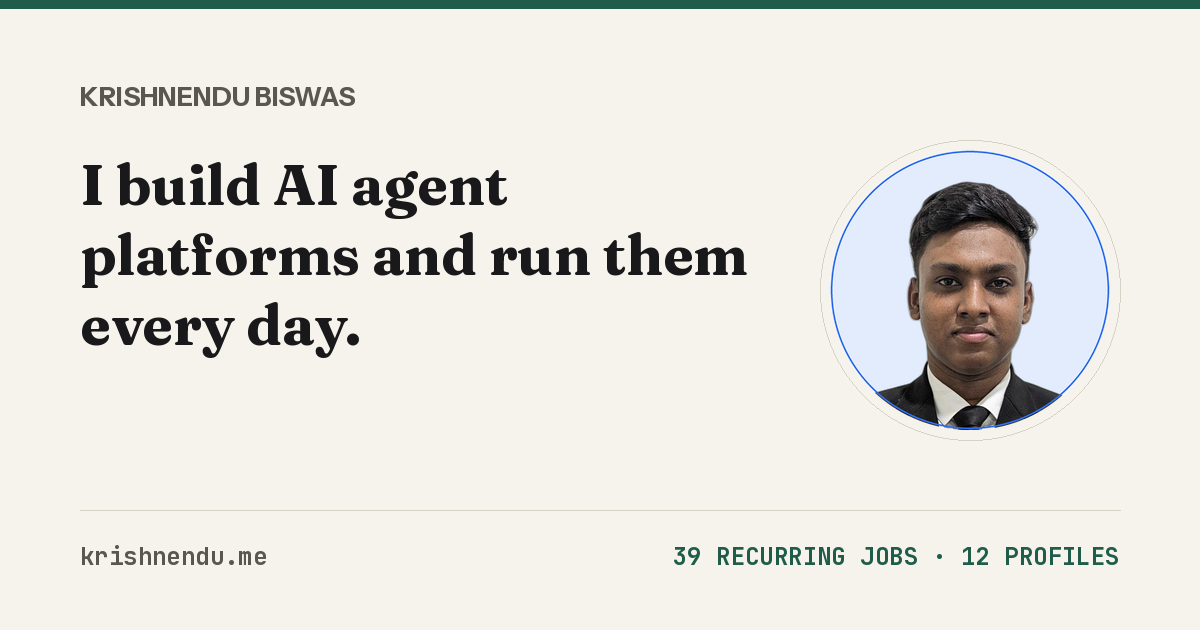
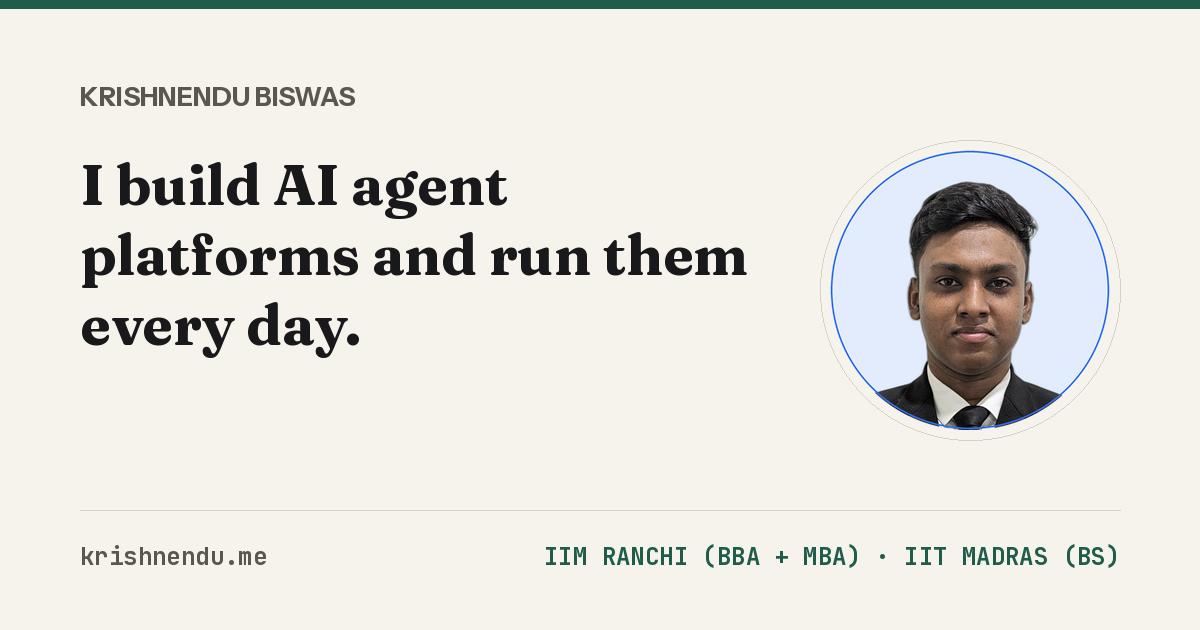
share card: education line replaces job/profile counts; second-year MBA wording; meta description no longer repeats hero tagline

Changed region(s): [[0.4625, 0.8444, 0.925, 0.9048]]

diff --git a/index.html b/index.html
@@ -3,8 +3,8 @@
 <head>
   <meta charset="utf-8">
   <meta name="viewport" content="width=device-width, initial-scale=1">
-  <title>Krishnendu Biswas | AI agent systems, IIM Ranchi MBA candidate</title>
-  <meta name="description" content="I build AI agent platforms and run them daily with a human approval gate. MBA candidate at IIM Ranchi, programming diploma from IIT Madras.">
+  <title>Krishnendu Biswas | AI agent systems, IIM Ranchi MBA</title>
+  <meta name="description" content="Multi-agent systems where every irreversible step waits for my approval. BS in Data Science at IIT Madras. Second-year MBA student at IIM Ranchi.">
   <link rel="canonical" href="https://krishnendu.me/">
   <link rel="icon" href="/favicon.ico" sizes="any">
   <link rel="icon" href="/assets/favicon.svg" type="image/svg+xml">
@@ -21,19 +21,19 @@
   <meta property="og:site_name" content="Krishnendu Biswas">
   <meta property="og:locale" content="en_IN">
   <meta property="og:url" content="https://krishnendu.me/">
-  <meta property="og:title" content="Krishnendu Biswas | AI agent systems, IIM Ranchi MBA candidate">
-  <meta property="og:description" content="I build AI agent platforms and run them daily with a human approval gate. MBA candidate at IIM Ranchi, programming diploma from IIT Madras.">
+  <meta property="og:title" content="Krishnendu Biswas | AI agent systems, IIM Ranchi MBA">
+  <meta property="og:description" content="Multi-agent systems where every irreversible step waits for my approval. BS in Data Science at IIT Madras. Second-year MBA student at IIM Ranchi.">
   <meta property="og:image" content="https://krishnendu.me/og/og-home.png">
   <meta property="og:image:secure_url" content="https://krishnendu.me/og/og-home.png">
   <meta property="og:image:type" content="image/png">
   <meta property="og:image:width" content="1200">
   <meta property="og:image:height" content="630">
-  <meta property="og:image:alt" content="Krishnendu Biswas | AI agent systems, IIM Ranchi MBA candidate, share card for krishnendu.me">
+  <meta property="og:image:alt" content="Krishnendu Biswas | AI agent systems, IIM Ranchi MBA, share card for krishnendu.me">
   <meta name="twitter:card" content="summary_large_image">
-  <meta name="twitter:title" content="Krishnendu Biswas | AI agent systems, IIM Ranchi MBA candidate">
-  <meta name="twitter:description" content="I build AI agent platforms and run them daily with a human approval gate. MBA candidate at IIM Ranchi, programming diploma from IIT Madras.">
+  <meta name="twitter:title" content="Krishnendu Biswas | AI agent systems, IIM Ranchi MBA">
+  <meta name="twitter:description" content="Multi-agent systems where every irreversible step waits for my approval. BS in Data Science at IIT Madras. Second-year MBA student at IIM Ranchi.">
   <meta name="twitter:image" content="https://krishnendu.me/og/og-home.png">
-  <meta name="twitter:image:alt" content="Krishnendu Biswas | AI agent systems, IIM Ranchi MBA candidate, share card for krishnendu.me">
+  <meta name="twitter:image:alt" content="Krishnendu Biswas | AI agent systems, IIM Ranchi MBA, share card for krishnendu.me">
   <script type="speculationrules">
   {
     "prerender": [
@@ -67,7 +67,7 @@
         "Krishnendu Biswas IIM Ranchi"
       ],
       "jobTitle": "AI Systems Developer and MBA Candidate",
-      "description": "Krishnendu Biswas is an MBA candidate at IIM Ranchi (class of 2027) who builds AI agent platforms and runs them daily with a human approval gate. He is pursuing the BS Degree in Data Science and Applications at IIT Madras (Diploma in Programming completed) and an author of a paper accepted for Springer Nature FICTA 2026 proceedings.",
+      "description": "Krishnendu Biswas is a second-year MBA student at IIM Ranchi (class of 2027) who builds AI agent platforms and runs them daily with a human approval gate. He is pursuing the BS Degree in Data Science and Applications at IIT Madras (Diploma in Programming completed) and an author of a paper accepted for Springer Nature FICTA 2026 proceedings.",
       "url": "https://krishnendu.me/",
       "image": {
         "@type": "ImageObject",
@@ -186,7 +186,7 @@
       "@type": "ProfilePage",
       "@id": "https://krishnendu.me/#webpage",
       "url": "https://krishnendu.me/",
-      "name": "Krishnendu Biswas | AI agent systems, IIM Ranchi MBA candidate",
+      "name": "Krishnendu Biswas | AI agent systems, IIM Ranchi MBA",
       "isPartOf": {
         "@id": "https://krishnendu.me/#website"
       },
@@ -292,7 +292,7 @@
           <span class="hero-line">I build AI agent platforms and run them every day.</span>
           <span class="hero-line turn">Anything irreversible waits for my approval.</span>
         </h1>
-        <p class="deck">MBA candidate, IIM Ranchi, class of 2027. BS in Data Science and Applications student at IIT Madras, Diploma in Programming completed. The platform runs on open-source Hermes Agent. The design is mine: which agent owns what, and where work stops for me.</p>
+        <p class="deck">Second-year MBA student, IIM Ranchi, class of 2027. BS in Data Science and Applications student at IIT Madras, Diploma in Programming completed. The platform runs on open-source Hermes Agent. The design is mine: which agent owns what, and where work stops for me.</p>
         <div class="actions">
           <a class="btn primary" href="/work/platform/">See the platform <svg class="icon" aria-hidden="true"><use href="#i-arr"/></svg></a>
           <a class="btn" href="/resume/Krishnendu-Biswas-Resume.pdf?v=2" target="_blank" rel="noopener noreferrer"><svg class="icon" aria-hidden="true"><use href="#i-pdf"/></svg> Resume (PDF)</a>
@@ -338,7 +338,7 @@
         </tr>
       </thead>
       <tbody>
-        <tr><th scope="row" aria-hidden="true">Mon</th><td class="is-void" aria-hidden="true"></td><td data-date="2026-09-14" data-value="0.0" data-level="0" role="gridcell" aria-label="Mon 14 Sep: 0 hours"></td><td data-date="2026-09-21" data-value="4.9" data-level="2" role="gridcell" aria-label="Mon 21 Sep: 4.9 h"></td><td data-date="2026-09-28" data-value="13.9" data-level="4" role="gridcell" aria-label="Mon 28 Sep: 13.9 h"></td><td data-date="2026-10-05" data-value="12.2" data-level="4" role="gridcell" aria-label="Mon 5 Oct: 12.2 h"></td></tr><tr><th scope="row" aria-hidden="true"></th><td class="is-void" aria-hidden="true"></td><td data-date="2026-09-15" data-value="0.2" data-level="1" role="gridcell" aria-label="Tue 15 Sep: 0.2 h"></td><td data-date="2026-09-22" data-value="5.1" data-level="3" role="gridcell" aria-label="Tue 22 Sep: 5.1 h"></td><td data-date="2026-09-29" data-value="6.3" data-level="3" role="gridcell" aria-label="Tue 29 Sep: 6.3 h"></td><td data-date="2026-10-06" data-value="10.2" data-level="4" role="gridcell" aria-label="Tue 6 Oct: 10.2 h"></td></tr><tr><th scope="row" aria-hidden="true">Wed</th><td class="is-void" aria-hidden="true"></td><td data-date="2026-09-16" data-value="0.0" data-level="0" role="gridcell" aria-label="Wed 16 Sep: 0 hours"></td><td data-date="2026-09-23" data-value="5.4" data-level="3" role="gridcell" aria-label="Wed 23 Sep: 5.4 h"></td><td data-date="2026-09-30" data-value="11.9" data-level="4" role="gridcell" aria-label="Wed 30 Sep: 11.9 h"></td><td data-date="2026-10-07" data-value="1.7" data-level="1" data-today="true" role="gridcell" aria-label="Wed 7 Oct: 1.7 h (today)"></td></tr><tr><th scope="row" aria-hidden="true"></th><td class="is-void" aria-hidden="true"></td><td data-date="2026-09-17" data-value="0.0" data-level="0" role="gridcell" aria-label="Thu 17 Sep: 0 hours"></td><td data-date="2026-09-24" data-value="6.7" data-level="3" role="gridcell" aria-label="Thu 24 Sep: 6.7 h"></td><td data-date="2026-10-01" data-value="9.3" data-level="4" role="gridcell" aria-label="Thu 1 Oct: 9.3 h"></td><td class="is-void" aria-hidden="true"></td></tr><tr><th scope="row" aria-hidden="true">Fri</th><td class="is-void" aria-hidden="true"></td><td data-date="2026-09-18" data-value="0.0" data-level="0" role="gridcell" aria-label="Fri 18 Sep: 0 hours"></td><td data-date="2026-09-25" data-value="9.2" data-level="4" role="gridcell" aria-label="Fri 25 Sep: 9.2 h"></td><td data-date="2026-10-02" data-value="13.3" data-level="4" role="gridcell" aria-label="Fri 2 Oct: 13.3 h"></td><td class="is-void" aria-hidden="true"></td></tr><tr><th scope="row" aria-hidden="true"></th><td class="is-void" aria-hidden="true"></td><td data-date="2026-09-19" data-value="3.3" data-level="2" role="gridcell" aria-label="Sat 19 Sep: 3.3 h"></td><td data-date="2026-09-26" data-value="3.8" data-level="2" role="gridcell" aria-label="Sat 26 Sep: 3.8 h"></td><td data-date="2026-10-03" data-value="11.1" data-level="4" role="gridcell" aria-label="Sat 3 Oct: 11.1 h"></td><td class="is-void" aria-hidden="true"></td></tr><tr><th scope="row" aria-hidden="true">Sun</th><td data-date="2026-09-13" data-value="0.2" data-level="1" role="gridcell" aria-label="Sun 13 Sep: 0.2 h"></td><td data-date="2026-09-20" data-value="1.2" data-level="1" role="gridcell" aria-label="Sun 20 Sep: 1.2 h"></td><td data-date="2026-09-27" data-value="4.5" data-level="2" role="gridcell" aria-label="Sun 27 Sep: 4.5 h"></td><td data-date="2026-10-04" data-value="8.0" data-level="3" role="gridcell" aria-label="Sun 4 Oct: 8.0 h"></td><td class="is-void" aria-hidden="true"></td></tr>
+        <tr><th scope="row" aria-hidden="true">Mon</th><td class="is-void" aria-hidden="true"></td><td data-date="2026-09-14" data-value="0.0" data-level="0" role="gridcell" aria-label="Mon 14 Sep: 0 hours"></td><td data-date="2026-09-21" data-value="4.9" data-level="2" role="gridcell" aria-label="Mon 21 Sep: 4.9 h"></td><td data-date="2026-09-28" data-value="13.9" data-level="4" role="gridcell" aria-label="Mon 28 Sep: 13.9 h"></td><td data-date="2026-10-05" data-value="12.2" data-level="4" role="gridcell" aria-label="Mon 5 Oct: 12.2 h"></td></tr><tr><th scope="row" aria-hidden="true"></th><td class="is-void" aria-hidden="true"></td><td data-date="2026-09-15" data-value="0.2" data-level="1" role="gridcell" aria-label="Tue 15 Sep: 0.2 h"></td><td data-date="2026-09-22" data-value="5.1" data-level="3" role="gridcell" aria-label="Tue 22 Sep: 5.1 h"></td><td data-date="2026-09-29" data-value="6.3" data-level="3" role="gridcell" aria-label="Tue 29 Sep: 6.3 h"></td><td data-date="2026-10-06" data-value="10.2" data-level="4" role="gridcell" aria-label="Tue 6 Oct: 10.2 h"></td></tr><tr><th scope="row" aria-hidden="true">Wed</th><td class="is-void" aria-hidden="true"></td><td data-date="2026-09-16" data-value="0.0" data-level="0" role="gridcell" aria-label="Wed 16 Sep: 0 hours"></td><td data-date="2026-09-23" data-value="5.4" data-level="3" role="gridcell" aria-label="Wed 23 Sep: 5.4 h"></td><td data-date="2026-09-30" data-value="11.9" data-level="4" role="gridcell" aria-label="Wed 30 Sep: 11.9 h"></td><td data-date="2026-10-07" data-value="2.1" data-level="2" data-today="true" role="gridcell" aria-label="Wed 7 Oct: 2.1 h (today)"></td></tr><tr><th scope="row" aria-hidden="true"></th><td class="is-void" aria-hidden="true"></td><td data-date="2026-09-17" data-value="0.0" data-level="0" role="gridcell" aria-label="Thu 17 Sep: 0 hours"></td><td data-date="2026-09-24" data-value="6.7" data-level="3" role="gridcell" aria-label="Thu 24 Sep: 6.7 h"></td><td data-date="2026-10-01" data-value="9.3" data-level="4" role="gridcell" aria-label="Thu 1 Oct: 9.3 h"></td><td class="is-void" aria-hidden="true"></td></tr><tr><th scope="row" aria-hidden="true">Fri</th><td class="is-void" aria-hidden="true"></td><td data-date="2026-09-18" data-value="0.0" data-level="0" role="gridcell" aria-label="Fri 18 Sep: 0 hours"></td><td data-date="2026-09-25" data-value="9.2" data-level="4" role="gridcell" aria-label="Fri 25 Sep: 9.2 h"></td><td data-date="2026-10-02" data-value="13.3" data-level="4" role="gridcell" aria-label="Fri 2 Oct: 13.3 h"></td><td class="is-void" aria-hidden="true"></td></tr><tr><th scope="row" aria-hidden="true"></th><td class="is-void" aria-hidden="true"></td><td data-date="2026-09-19" data-value="3.3" data-level="2" role="gridcell" aria-label="Sat 19 Sep: 3.3 h"></td><td data-date="2026-09-26" data-value="3.8" data-level="2" role="gridcell" aria-label="Sat 26 Sep: 3.8 h"></td><td data-date="2026-10-03" data-value="11.1" data-level="4" role="gridcell" aria-label="Sat 3 Oct: 11.1 h"></td><td class="is-void" aria-hidden="true"></td></tr><tr><th scope="row" aria-hidden="true">Sun</th><td data-date="2026-09-13" data-value="0.2" data-level="1" role="gridcell" aria-label="Sun 13 Sep: 0.2 h"></td><td data-date="2026-09-20" data-value="1.2" data-level="1" role="gridcell" aria-label="Sun 20 Sep: 1.2 h"></td><td data-date="2026-09-27" data-value="4.5" data-level="2" role="gridcell" aria-label="Sun 27 Sep: 4.5 h"></td><td data-date="2026-10-04" data-value="8.0" data-level="3" role="gridcell" aria-label="Sun 4 Oct: 8.0 h"></td><td class="is-void" aria-hidden="true"></td></tr>
       </tbody>
     </table>
   </div>
@@ -349,7 +349,7 @@
 </div>
 </figure>
         <div class="panel-stats">
-          <div class="stat-line"><span class="lbl">Total hours</span><span class="val">142.4 h</span></div>
+          <div class="stat-line"><span class="lbl">Total hours</span><span class="val">142.8 h</span></div>
           <div class="stat-line"><span class="lbl">Active days</span><span class="val">21</span></div>
           <div class="stat-line"><span class="lbl">Daily average</span><span class="val">6.8 h/day</span></div>
           <div class="stat-line"><span class="lbl">Longest day</span><span class="val">13.9 h (28 Sep 2026)</span></div>
@@ -363,9 +363,9 @@
     <article class="metric-card" id="metric-card-replies">
   <details class="metric-pop" data-ix="metric_pop">
     <summary class="metric-summary" aria-haspopup="dialog" aria-expanded="false">
-      <div class="metric-num">127,881</div>
+      <div class="metric-num">129,015</div>
       <span class="metric-title">Agent replies <span class="metric-affordance"><span>Message split</span><svg class="affordance-icon" width="10" height="10" viewBox="0 0 12 12" fill="none" stroke="currentColor" stroke-width="2" aria-hidden="true"><path d="M3 4.5l3 3 3-3"/></svg></span></span>
-      <div class="metric-cap">Replies my agents sent to the 3,037 messages I sent them, most of them dictated.</div>
+      <div class="metric-cap">Replies my agents sent to the 3,044 messages I sent them, most of them dictated.</div>
     </summary>
     <div class="metric-panel" role="region" aria-label="Agent replies breakdown">
       <div class="panel-header">
@@ -377,15 +377,15 @@
       <div class="panel-content">
         <div class="bars-chart" aria-label="Turn volume comparison">
           <div class="bar-row">
-            <div class="bar-head"><span class="lbl">My messages (dictated or typed)</span><span class="val">3,037</span></div>
+            <div class="bar-head"><span class="lbl">My messages (dictated or typed)</span><span class="val">3,044</span></div>
             <div class="bar-track"><div class="bar-fill bar-human" style="width: 4%"></div></div>
           </div>
           <div class="bar-row">
-            <div class="bar-head"><span class="lbl">Agent replies</span><span class="val">127,881</span></div>
+            <div class="bar-head"><span class="lbl">Agent replies</span><span class="val">129,015</span></div>
             <div class="bar-track"><div class="bar-fill bar-agent" style="width: 100%"></div></div>
           </div>
           <div class="bar-row">
-            <div class="bar-head"><span class="lbl">Tool executions</span><span class="val">127,019</span></div>
+            <div class="bar-head"><span class="lbl">Tool executions</span><span class="val">128,187</span></div>
             <div class="bar-track"><div class="bar-fill bar-tool" style="width: 99%"></div></div>
           </div>
         </div>
@@ -399,7 +399,7 @@
     <article class="metric-card" id="metric-card-tokens">
   <details class="metric-pop" data-ix="metric_pop">
     <summary class="metric-summary" aria-haspopup="dialog" aria-expanded="false">
-      <div class="metric-num">7.74 <span class="unit">B</span></div>
+      <div class="metric-num">7.79 <span class="unit">B</span></div>
       <span class="metric-title">Tokens processed <span class="metric-affordance"><span>Model breakdown</span><svg class="affordance-icon" width="10" height="10" viewBox="0 0 12 12" fill="none" stroke="currentColor" stroke-width="2" aria-hidden="true"><path d="M3 4.5l3 3 3-3"/></svg></span></span>
       <div class="metric-cap">Mostly context my agents re-read on every turn.</div>
     </summary>
@@ -423,7 +423,7 @@
         </tr>
       </thead>
       <tbody>
-        <tr><th scope="row" aria-hidden="true">Mon</th><td class="is-void" aria-hidden="true"></td><td data-date="2026-09-14" data-value="0" data-level="0" role="gridcell" aria-label="Mon 14 Sep: 0 tokens"></td><td data-date="2026-09-21" data-value="95953864" data-level="2" role="gridcell" aria-label="Mon 21 Sep: 96.0 M tokens"></td><td data-date="2026-09-28" data-value="631148070" data-level="4" role="gridcell" aria-label="Mon 28 Sep: 631.1 M tokens"></td><td data-date="2026-10-05" data-value="1111637264" data-level="4" role="gridcell" aria-label="Mon 5 Oct: 1.11 B tokens"></td></tr><tr><th scope="row" aria-hidden="true"></th><td class="is-void" aria-hidden="true"></td><td data-date="2026-09-15" data-value="15355" data-level="1" role="gridcell" aria-label="Tue 15 Sep: 15,355 tokens"></td><td data-date="2026-09-22" data-value="313407280" data-level="3" role="gridcell" aria-label="Tue 22 Sep: 313.4 M tokens"></td><td data-date="2026-09-29" data-value="358888124" data-level="3" role="gridcell" aria-label="Tue 29 Sep: 358.9 M tokens"></td><td data-date="2026-10-06" data-value="1133844646" data-level="4" role="gridcell" aria-label="Tue 6 Oct: 1.13 B tokens"></td></tr><tr><th scope="row" aria-hidden="true">Wed</th><td class="is-void" aria-hidden="true"></td><td data-date="2026-09-16" data-value="70000666" data-level="2" role="gridcell" aria-label="Wed 16 Sep: 70.0 M tokens"></td><td data-date="2026-09-23" data-value="366172370" data-level="3" role="gridcell" aria-label="Wed 23 Sep: 366.2 M tokens"></td><td data-date="2026-09-30" data-value="210326397" data-level="3" role="gridcell" aria-label="Wed 30 Sep: 210.3 M tokens"></td><td data-date="2026-10-07" data-value="214871427" data-level="3" data-today="true" role="gridcell" aria-label="Wed 7 Oct: 214.9 M tokens (today)"></td></tr><tr><th scope="row" aria-hidden="true"></th><td class="is-void" aria-hidden="true"></td><td data-date="2026-09-17" data-value="114053368" data-level="2" role="gridcell" aria-label="Thu 17 Sep: 114.1 M tokens"></td><td data-date="2026-09-24" data-value="285423212" data-level="3" role="gridcell" aria-label="Thu 24 Sep: 285.4 M tokens"></td><td data-date="2026-10-01" data-value="375736876" data-level="3" role="gridcell" aria-label="Thu 1 Oct: 375.7 M tokens"></td><td class="is-void" aria-hidden="true"></td></tr><tr><th scope="row" aria-hidden="true">Fri</th><td class="is-void" aria-hidden="true"></td><td data-date="2026-09-18" data-value="85326766" data-level="2" role="gridcell" aria-label="Fri 18 Sep: 85.3 M tokens"></td><td data-date="2026-09-25" data-value="143594670" data-level="2" role="gridcell" aria-label="Fri 25 Sep: 143.6 M tokens"></td><td data-date="2026-10-02" data-value="685183206" data-level="4" role="gridcell" aria-label="Fri 2 Oct: 685.2 M tokens"></td><td class="is-void" aria-hidden="true"></td></tr><tr><th scope="row" aria-hidden="true"></th><td class="is-void" aria-hidden="true"></td><td data-date="2026-09-19" data-value="56009301" data-level="2" role="gridcell" aria-label="Sat 19 Sep: 56.0 M tokens"></td><td data-date="2026-09-26" data-value="39499225" data-level="1" role="gridcell" aria-label="Sat 26 Sep: 39.5 M tokens"></td><td data-date="2026-10-03" data-value="875089817" data-level="4" role="gridcell" aria-label="Sat 3 Oct: 875.1 M tokens"></td><td class="is-void" aria-hidden="true"></td></tr><tr><th scope="row" aria-hidden="true">Sun</th><td data-date="2026-09-13" data-value="0" data-level="0" role="gridcell" aria-label="Sun 13 Sep: 0 tokens"></td><td data-date="2026-09-20" data-value="18764637" data-level="1" role="gridcell" aria-label="Sun 20 Sep: 18.8 M tokens"></td><td data-date="2026-09-27" data-value="118419741" data-level="2" role="gridcell" aria-label="Sun 27 Sep: 118.4 M tokens"></td><td data-date="2026-10-04" data-value="435144605" data-level="3" role="gridcell" aria-label="Sun 4 Oct: 435.1 M tokens"></td><td class="is-void" aria-hidden="true"></td></tr>
+        <tr><th scope="row" aria-hidden="true">Mon</th><td class="is-void" aria-hidden="true"></td><td data-date="2026-09-14" data-value="0" data-level="0" role="gridcell" aria-label="Mon 14 Sep: 0 tokens"></td><td data-date="2026-09-21" data-value="95953864" data-level="2" role="gridcell" aria-label="Mon 21 Sep: 96.0 M tokens"></td><td data-date="2026-09-28" data-value="631148070" data-level="4" role="gridcell" aria-label="Mon 28 Sep: 631.1 M tokens"></td><td data-date="2026-10-05" data-value="1111637264" data-level="4" role="gridcell" aria-label="Mon 5 Oct: 1.11 B tokens"></td></tr><tr><th scope="row" aria-hidden="true"></th><td class="is-void" aria-hidden="true"></td><td data-date="2026-09-15" data-value="15355" data-level="1" role="gridcell" aria-label="Tue 15 Sep: 15,355 tokens"></td><td data-date="2026-09-22" data-value="313407280" data-level="3" role="gridcell" aria-label="Tue 22 Sep: 313.4 M tokens"></td><td data-date="2026-09-29" data-value="358888124" data-level="3" role="gridcell" aria-label="Tue 29 Sep: 358.9 M tokens"></td><td data-date="2026-10-06" data-value="1125819747" data-level="4" role="gridcell" aria-label="Tue 6 Oct: 1.13 B tokens"></td></tr><tr><th scope="row" aria-hidden="true">Wed</th><td class="is-void" aria-hidden="true"></td><td data-date="2026-09-16" data-value="70000666" data-level="2" role="gridcell" aria-label="Wed 16 Sep: 70.0 M tokens"></td><td data-date="2026-09-23" data-value="366172370" data-level="3" role="gridcell" aria-label="Wed 23 Sep: 366.2 M tokens"></td><td data-date="2026-09-30" data-value="210326397" data-level="3" role="gridcell" aria-label="Wed 30 Sep: 210.3 M tokens"></td><td data-date="2026-10-07" data-value="274071604" data-level="3" data-today="true" role="gridcell" aria-label="Wed 7 Oct: 274.1 M tokens (today)"></td></tr><tr><th scope="row" aria-hidden="true"></th><td class="is-void" aria-hidden="true"></td><td data-date="2026-09-17" data-value="114053368" data-level="2" role="gridcell" aria-label="Thu 17 Sep: 114.1 M tokens"></td><td data-date="2026-09-24" data-value="285423212" data-level="3" role="gridcell" aria-label="Thu 24 Sep: 285.4 M tokens"></td><td data-date="2026-10-01" data-value="375736876" data-level="3" role="gridcell" aria-label="Thu 1 Oct: 375.7 M tokens"></td><td class="is-void" aria-hidden="true"></td></tr><tr><th scope="row" aria-hidden="true">Fri</th><td class="is-void" aria-hidden="true"></td><td data-date="2026-09-18" data-value="85326766" data-level="2" role="gridcell" aria-label="Fri 18 Sep: 85.3 M tokens"></td><td data-date="2026-09-25" data-value="143594670" data-level="2" role="gridcell" aria-label="Fri 25 Sep: 143.6 M tokens"></td><td data-date="2026-10-02" data-value="685183206" data-level="4" role="gridcell" aria-label="Fri 2 Oct: 685.2 M tokens"></td><td class="is-void" aria-hidden="true"></td></tr><tr><th scope="row" aria-hidden="true"></th><td class="is-void" aria-hidden="true"></td><td data-date="2026-09-19" data-value="56009301" data-level="2" role="gridcell" aria-label="Sat 19 Sep: 56.0 M tokens"></td><td data-date="2026-09-26" data-value="39499225" data-level="1" role="gridcell" aria-label="Sat 26 Sep: 39.5 M tokens"></td><td data-date="2026-10-03" data-value="875089817" data-level="4" role="gridcell" aria-label="Sat 3 Oct: 875.1 M tokens"></td><td class="is-void" aria-hidden="true"></td></tr><tr><th scope="row" aria-hidden="true">Sun</th><td data-date="2026-09-13" data-value="0" data-level="0" role="gridcell" aria-label="Sun 13 Sep: 0 tokens"></td><td data-date="2026-09-20" data-value="18764637" data-level="1" role="gridcell" aria-label="Sun 20 Sep: 18.8 M tokens"></td><td data-date="2026-09-27" data-value="118419741" data-level="2" role="gridcell" aria-label="Sun 27 Sep: 118.4 M tokens"></td><td data-date="2026-10-04" data-value="435144605" data-level="3" role="gridcell" aria-label="Sun 4 Oct: 435.1 M tokens"></td><td class="is-void" aria-hidden="true"></td></tr>
       </tbody>
     </table>
   </div>
@@ -434,12 +434,12 @@
 </div>
 </figure>
         <div class="panel-stats">
-          <div class="stat-line"><span class="lbl">9router proxy</span><span class="val">6.69 B</span></div>
-          <div class="stat-line"><span class="lbl">Direct Claude (Hermes)</span><span class="val">1029.5 M</span></div>
+          <div class="stat-line"><span class="lbl">9router proxy</span><span class="val">6.72 B</span></div>
+          <div class="stat-line"><span class="lbl">Direct Claude (Hermes)</span><span class="val">1053.3 M</span></div>
           <div class="stat-line"><span class="lbl">Claude Code CLI</span><span class="val">16.7 M</span></div>
           <div class="stat-line"><span class="lbl">Peak day</span><span class="val">1.13 B (6 Oct 2026)</span></div>
         </div>
-        <p class="panel-sub-note">Model mix: Gemini 65.2%, Claude Opus 29.8%, Claude Sonnet 5.0% (share of Hermes-tracked tokens).</p>
+        <p class="panel-sub-note">Model mix: Gemini 64.9%, Claude Opus 30.1%, Claude Sonnet 5.0% (share of Hermes-tracked tokens).</p>
         <a href="/work/platform/#cost" class="panel-link">Explore model routing economics &rarr;</a>
       </div>
     </div>
@@ -866,7 +866,7 @@
   <!-- about-answer -->
   <section class="section wrap" id="about" aria-labelledby="h-about">
     <h2 id="h-about">Who is Krishnendu Biswas?</h2>
-    <p>Krishnendu Biswas is an MBA candidate at IIM Ranchi (class of 2027) who builds AI agent platforms and runs them every day with a human approval gate. He is pursuing the BS Degree in Data Science and Applications at IIT Madras (Diploma in Programming completed), is a Senior Executive Member of the IIM Ranchi Corporate Relations and Placement Committee, and is an author of a paper accepted for publication in Springer Nature FICTA 2026 proceedings, a Scopus indexed series.</p>
+    <p>Krishnendu Biswas is a second-year MBA student at IIM Ranchi (class of 2027) who builds AI agent platforms and runs them every day with a human approval gate. He is pursuing the BS Degree in Data Science and Applications at IIT Madras (Diploma in Programming completed), is a Senior Executive Member of the IIM Ranchi Corporate Relations and Placement Committee, and is an author of a paper accepted for publication in Springer Nature FICTA 2026 proceedings, a Scopus indexed series.</p>
   </section>
   <!-- Leadership -->
   <section class="section wrap" id="leadership" data-ix="reveal" aria-labelledby="h-lead">
@@ -896,7 +896,7 @@
   <section class="section wrap" id="contact" data-ix="reveal" aria-labelledby="h-contact">
     <h2 id="h-contact">Work with me</h2>
     <div class="cta">
-      <p>I am in final placements at IIM Ranchi (MBA candidate, class of 2027). Email reaches me fastest.</p>
+      <p>I am in final placements at IIM Ranchi (second-year MBA, class of 2027). Email reaches me fastest.</p>
       <ul class="textlinks">
         <li><a href="mailto:krishnendu.biswasi22@iimranchi.ac.in" data-ix="copy_email"><svg class="icon" aria-hidden="true"><use href="#i-mail"/></svg> krishnendu.biswasi22@iimranchi.ac.in</a></li>
         <li><a href="https://linkedin.com/in/krshnndu/" target="_blank" rel="noopener noreferrer"><svg class="icon brand" aria-hidden="true"><use href="#i-linkedin"/></svg> LinkedIn</a></li>

diff --git a/work/platform/index.html b/work/platform/index.html
@@ -213,7 +213,7 @@
     <p class="deck">Time I spent working with my agents across Discord, Telegram, and Hermes CLI, sessionized by a 15-minute idle gap.</p>
     
     <div class="stats-row">
-      <div class="stat-item"><span class="stat-val">142.4 h</span><span class="stat-lbl">Total hours</span></div>
+      <div class="stat-item"><span class="stat-val">142.8 h</span><span class="stat-lbl">Total hours</span></div>
       <div class="stat-item"><span class="stat-val">21</span><span class="stat-lbl">Active days</span></div>
       <div class="stat-item"><span class="stat-val">6.8 h</span><span class="stat-lbl">Avg / active day</span></div>
       <div class="stat-item"><span class="stat-val">13.9 h</span><span class="stat-lbl">Longest day (2026-09-28)</span></div>
@@ -230,7 +230,7 @@
         </tr>
       </thead>
       <tbody>
-        <tr><th scope="row" aria-hidden="true">Mon</th><td class="is-void" aria-hidden="true"></td><td data-date="2026-09-14" data-value="0.0" data-level="0" role="gridcell" aria-label="Mon 14 Sep: 0 hours"></td><td data-date="2026-09-21" data-value="4.9" data-level="2" role="gridcell" aria-label="Mon 21 Sep: 4.9 h"></td><td data-date="2026-09-28" data-value="13.9" data-level="4" role="gridcell" aria-label="Mon 28 Sep: 13.9 h"></td><td data-date="2026-10-05" data-value="12.2" data-level="4" role="gridcell" aria-label="Mon 5 Oct: 12.2 h"></td></tr><tr><th scope="row" aria-hidden="true"></th><td class="is-void" aria-hidden="true"></td><td data-date="2026-09-15" data-value="0.2" data-level="1" role="gridcell" aria-label="Tue 15 Sep: 0.2 h"></td><td data-date="2026-09-22" data-value="5.1" data-level="3" role="gridcell" aria-label="Tue 22 Sep: 5.1 h"></td><td data-date="2026-09-29" data-value="6.3" data-level="3" role="gridcell" aria-label="Tue 29 Sep: 6.3 h"></td><td data-date="2026-10-06" data-value="10.2" data-level="4" role="gridcell" aria-label="Tue 6 Oct: 10.2 h"></td></tr><tr><th scope="row" aria-hidden="true">Wed</th><td class="is-void" aria-hidden="true"></td><td data-date="2026-09-16" data-value="0.0" data-level="0" role="gridcell" aria-label="Wed 16 Sep: 0 hours"></td><td data-date="2026-09-23" data-value="5.4" data-level="3" role="gridcell" aria-label="Wed 23 Sep: 5.4 h"></td><td data-date="2026-09-30" data-value="11.9" data-level="4" role="gridcell" aria-label="Wed 30 Sep: 11.9 h"></td><td data-date="2026-10-07" data-value="1.7" data-level="1" data-today="true" role="gridcell" aria-label="Wed 7 Oct: 1.7 h (today)"></td></tr><tr><th scope="row" aria-hidden="true"></th><td class="is-void" aria-hidden="true"></td><td data-date="2026-09-17" data-value="0.0" data-level="0" role="gridcell" aria-label="Thu 17 Sep: 0 hours"></td><td data-date="2026-09-24" data-value="6.7" data-level="3" role="gridcell" aria-label="Thu 24 Sep: 6.7 h"></td><td data-date="2026-10-01" data-value="9.3" data-level="4" role="gridcell" aria-label="Thu 1 Oct: 9.3 h"></td><td class="is-void" aria-hidden="true"></td></tr><tr><th scope="row" aria-hidden="true">Fri</th><td class="is-void" aria-hidden="true"></td><td data-date="2026-09-18" data-value="0.0" data-level="0" role="gridcell" aria-label="Fri 18 Sep: 0 hours"></td><td data-date="2026-09-25" data-value="9.2" data-level="4" role="gridcell" aria-label="Fri 25 Sep: 9.2 h"></td><td data-date="2026-10-02" data-value="13.3" data-level="4" role="gridcell" aria-label="Fri 2 Oct: 13.3 h"></td><td class="is-void" aria-hidden="true"></td></tr><tr><th scope="row" aria-hidden="true"></th><td class="is-void" aria-hidden="true"></td><td data-date="2026-09-19" data-value="3.3" data-level="2" role="gridcell" aria-label="Sat 19 Sep: 3.3 h"></td><td data-date="2026-09-26" data-value="3.8" data-level="2" role="gridcell" aria-label="Sat 26 Sep: 3.8 h"></td><td data-date="2026-10-03" data-value="11.1" data-level="4" role="gridcell" aria-label="Sat 3 Oct: 11.1 h"></td><td class="is-void" aria-hidden="true"></td></tr><tr><th scope="row" aria-hidden="true">Sun</th><td data-date="2026-09-13" data-value="0.2" data-level="1" role="gridcell" aria-label="Sun 13 Sep: 0.2 h"></td><td data-date="2026-09-20" data-value="1.2" data-level="1" role="gridcell" aria-label="Sun 20 Sep: 1.2 h"></td><td data-date="2026-09-27" data-value="4.5" data-level="2" role="gridcell" aria-label="Sun 27 Sep: 4.5 h"></td><td data-date="2026-10-04" data-value="8.0" data-level="3" role="gridcell" aria-label="Sun 4 Oct: 8.0 h"></td><td class="is-void" aria-hidden="true"></td></tr>
+        <tr><th scope="row" aria-hidden="true">Mon</th><td class="is-void" aria-hidden="true"></td><td data-date="2026-09-14" data-value="0.0" data-level="0" role="gridcell" aria-label="Mon 14 Sep: 0 hours"></td><td data-date="2026-09-21" data-value="4.9" data-level="2" role="gridcell" aria-label="Mon 21 Sep: 4.9 h"></td><td data-date="2026-09-28" data-value="13.9" data-level="4" role="gridcell" aria-label="Mon 28 Sep: 13.9 h"></td><td data-date="2026-10-05" data-value="12.2" data-level="4" role="gridcell" aria-label="Mon 5 Oct: 12.2 h"></td></tr><tr><th scope="row" aria-hidden="true"></th><td class="is-void" aria-hidden="true"></td><td data-date="2026-09-15" data-value="0.2" data-level="1" role="gridcell" aria-label="Tue 15 Sep: 0.2 h"></td><td data-date="2026-09-22" data-value="5.1" data-level="3" role="gridcell" aria-label="Tue 22 Sep: 5.1 h"></td><td data-date="2026-09-29" data-value="6.3" data-level="3" role="gridcell" aria-label="Tue 29 Sep: 6.3 h"></td><td data-date="2026-10-06" data-value="10.2" data-level="4" role="gridcell" aria-label="Tue 6 Oct: 10.2 h"></td></tr><tr><th scope="row" aria-hidden="true">Wed</th><td class="is-void" aria-hidden="true"></td><td data-date="2026-09-16" data-value="0.0" data-level="0" role="gridcell" aria-label="Wed 16 Sep: 0 hours"></td><td data-date="2026-09-23" data-value="5.4" data-level="3" role="gridcell" aria-label="Wed 23 Sep: 5.4 h"></td><td data-date="2026-09-30" data-value="11.9" data-level="4" role="gridcell" aria-label="Wed 30 Sep: 11.9 h"></td><td data-date="2026-10-07" data-value="2.1" data-level="2" data-today="true" role="gridcell" aria-label="Wed 7 Oct: 2.1 h (today)"></td></tr><tr><th scope="row" aria-hidden="true"></th><td class="is-void" aria-hidden="true"></td><td data-date="2026-09-17" data-value="0.0" data-level="0" role="gridcell" aria-label="Thu 17 Sep: 0 hours"></td><td data-date="2026-09-24" data-value="6.7" data-level="3" role="gridcell" aria-label="Thu 24 Sep: 6.7 h"></td><td data-date="2026-10-01" data-value="9.3" data-level="4" role="gridcell" aria-label="Thu 1 Oct: 9.3 h"></td><td class="is-void" aria-hidden="true"></td></tr><tr><th scope="row" aria-hidden="true">Fri</th><td class="is-void" aria-hidden="true"></td><td data-date="2026-09-18" data-value="0.0" data-level="0" role="gridcell" aria-label="Fri 18 Sep: 0 hours"></td><td data-date="2026-09-25" data-value="9.2" data-level="4" role="gridcell" aria-label="Fri 25 Sep: 9.2 h"></td><td data-date="2026-10-02" data-value="13.3" data-level="4" role="gridcell" aria-label="Fri 2 Oct: 13.3 h"></td><td class="is-void" aria-hidden="true"></td></tr><tr><th scope="row" aria-hidden="true"></th><td class="is-void" aria-hidden="true"></td><td data-date="2026-09-19" data-value="3.3" data-level="2" role="gridcell" aria-label="Sat 19 Sep: 3.3 h"></td><td data-date="2026-09-26" data-value="3.8" data-level="2" role="gridcell" aria-label="Sat 26 Sep: 3.8 h"></td><td data-date="2026-10-03" data-value="11.1" data-level="4" role="gridcell" aria-label="Sat 3 Oct: 11.1 h"></td><td class="is-void" aria-hidden="true"></td></tr><tr><th scope="row" aria-hidden="true">Sun</th><td data-date="2026-09-13" data-value="0.2" data-level="1" role="gridcell" aria-label="Sun 13 Sep: 0.2 h"></td><td data-date="2026-09-20" data-value="1.2" data-level="1" role="gridcell" aria-label="Sun 20 Sep: 1.2 h"></td><td data-date="2026-09-27" data-value="4.5" data-level="2" role="gridcell" aria-label="Sun 27 Sep: 4.5 h"></td><td data-date="2026-10-04" data-value="8.0" data-level="3" role="gridcell" aria-label="Sun 4 Oct: 8.0 h"></td><td class="is-void" aria-hidden="true"></td></tr>
       </tbody>
     </table>
   </div>
@@ -260,7 +260,7 @@
         </tr>
       </thead>
       <tbody>
-        <tr><th scope="row" aria-hidden="true">Mon</th><td class="is-void" aria-hidden="true"></td><td data-date="2026-09-14" data-value="0" data-level="0" role="gridcell" aria-label="Mon 14 Sep: 0 tokens"></td><td data-date="2026-09-21" data-value="95953864" data-level="2" role="gridcell" aria-label="Mon 21 Sep: 96.0 M tokens"></td><td data-date="2026-09-28" data-value="631148070" data-level="4" role="gridcell" aria-label="Mon 28 Sep: 631.1 M tokens"></td><td data-date="2026-10-05" data-value="1111637264" data-level="4" role="gridcell" aria-label="Mon 5 Oct: 1.11 B tokens"></td></tr><tr><th scope="row" aria-hidden="true"></th><td class="is-void" aria-hidden="true"></td><td data-date="2026-09-15" data-value="15355" data-level="1" role="gridcell" aria-label="Tue 15 Sep: 15,355 tokens"></td><td data-date="2026-09-22" data-value="313407280" data-level="3" role="gridcell" aria-label="Tue 22 Sep: 313.4 M tokens"></td><td data-date="2026-09-29" data-value="358888124" data-level="3" role="gridcell" aria-label="Tue 29 Sep: 358.9 M tokens"></td><td data-date="2026-10-06" data-value="1133844646" data-level="4" role="gridcell" aria-label="Tue 6 Oct: 1.13 B tokens"></td></tr><tr><th scope="row" aria-hidden="true">Wed</th><td class="is-void" aria-hidden="true"></td><td data-date="2026-09-16" data-value="70000666" data-level="2" role="gridcell" aria-label="Wed 16 Sep: 70.0 M tokens"></td><td data-date="2026-09-23" data-value="366172370" data-level="3" role="gridcell" aria-label="Wed 23 Sep: 366.2 M tokens"></td><td data-date="2026-09-30" data-value="210326397" data-level="3" role="gridcell" aria-label="Wed 30 Sep: 210.3 M tokens"></td><td data-date="2026-10-07" data-value="214871427" data-level="3" data-today="true" role="gridcell" aria-label="Wed 7 Oct: 214.9 M tokens (today)"></td></tr><tr><th scope="row" aria-hidden="true"></th><td class="is-void" aria-hidden="true"></td><td data-date="2026-09-17" data-value="114053368" data-level="2" role="gridcell" aria-label="Thu 17 Sep: 114.1 M tokens"></td><td data-date="2026-09-24" data-value="285423212" data-level="3" role="gridcell" aria-label="Thu 24 Sep: 285.4 M tokens"></td><td data-date="2026-10-01" data-value="375736876" data-level="3" role="gridcell" aria-label="Thu 1 Oct: 375.7 M tokens"></td><td class="is-void" aria-hidden="true"></td></tr><tr><th scope="row" aria-hidden="true">Fri</th><td class="is-void" aria-hidden="true"></td><td data-date="2026-09-18" data-value="85326766" data-level="2" role="gridcell" aria-label="Fri 18 Sep: 85.3 M tokens"></td><td data-date="2026-09-25" data-value="143594670" data-level="2" role="gridcell" aria-label="Fri 25 Sep: 143.6 M tokens"></td><td data-date="2026-10-02" data-value="685183206" data-level="4" role="gridcell" aria-label="Fri 2 Oct: 685.2 M tokens"></td><td class="is-void" aria-hidden="true"></td></tr><tr><th scope="row" aria-hidden="true"></th><td class="is-void" aria-hidden="true"></td><td data-date="2026-09-19" data-value="56009301" data-level="2" role="gridcell" aria-label="Sat 19 Sep: 56.0 M tokens"></td><td data-date="2026-09-26" data-value="39499225" data-level="1" role="gridcell" aria-label="Sat 26 Sep: 39.5 M tokens"></td><td data-date="2026-10-03" data-value="875089817" data-level="4" role="gridcell" aria-label="Sat 3 Oct: 875.1 M tokens"></td><td class="is-void" aria-hidden="true"></td></tr><tr><th scope="row" aria-hidden="true">Sun</th><td data-date="2026-09-13" data-value="0" data-level="0" role="gridcell" aria-label="Sun 13 Sep: 0 tokens"></td><td data-date="2026-09-20" data-value="18764637" data-level="1" role="gridcell" aria-label="Sun 20 Sep: 18.8 M tokens"></td><td data-date="2026-09-27" data-value="118419741" data-level="2" role="gridcell" aria-label="Sun 27 Sep: 118.4 M tokens"></td><td data-date="2026-10-04" data-value="435144605" data-level="3" role="gridcell" aria-label="Sun 4 Oct: 435.1 M tokens"></td><td class="is-void" aria-hidden="true"></td></tr>
+        <tr><th scope="row" aria-hidden="true">Mon</th><td class="is-void" aria-hidden="true"></td><td data-date="2026-09-14" data-value="0" data-level="0" role="gridcell" aria-label="Mon 14 Sep: 0 tokens"></td><td data-date="2026-09-21" data-value="95953864" data-level="2" role="gridcell" aria-label="Mon 21 Sep: 96.0 M tokens"></td><td data-date="2026-09-28" data-value="631148070" data-level="4" role="gridcell" aria-label="Mon 28 Sep: 631.1 M tokens"></td><td data-date="2026-10-05" data-value="1111637264" data-level="4" role="gridcell" aria-label="Mon 5 Oct: 1.11 B tokens"></td></tr><tr><th scope="row" aria-hidden="true"></th><td class="is-void" aria-hidden="true"></td><td data-date="2026-09-15" data-value="15355" data-level="1" role="gridcell" aria-label="Tue 15 Sep: 15,355 tokens"></td><td data-date="2026-09-22" data-value="313407280" data-level="3" role="gridcell" aria-label="Tue 22 Sep: 313.4 M tokens"></td><td data-date="2026-09-29" data-value="358888124" data-level="3" role="gridcell" aria-label="Tue 29 Sep: 358.9 M tokens"></td><td data-date="2026-10-06" data-value="1125819747" data-level="4" role="gridcell" aria-label="Tue 6 Oct: 1.13 B tokens"></td></tr><tr><th scope="row" aria-hidden="true">Wed</th><td class="is-void" aria-hidden="true"></td><td data-date="2026-09-16" data-value="70000666" data-level="2" role="gridcell" aria-label="Wed 16 Sep: 70.0 M tokens"></td><td data-date="2026-09-23" data-value="366172370" data-level="3" role="gridcell" aria-label="Wed 23 Sep: 366.2 M tokens"></td><td data-date="2026-09-30" data-value="210326397" data-level="3" role="gridcell" aria-label="Wed 30 Sep: 210.3 M tokens"></td><td data-date="2026-10-07" data-value="274071604" data-level="3" data-today="true" role="gridcell" aria-label="Wed 7 Oct: 274.1 M tokens (today)"></td></tr><tr><th scope="row" aria-hidden="true"></th><td class="is-void" aria-hidden="true"></td><td data-date="2026-09-17" data-value="114053368" data-level="2" role="gridcell" aria-label="Thu 17 Sep: 114.1 M tokens"></td><td data-date="2026-09-24" data-value="285423212" data-level="3" role="gridcell" aria-label="Thu 24 Sep: 285.4 M tokens"></td><td data-date="2026-10-01" data-value="375736876" data-level="3" role="gridcell" aria-label="Thu 1 Oct: 375.7 M tokens"></td><td class="is-void" aria-hidden="true"></td></tr><tr><th scope="row" aria-hidden="true">Fri</th><td class="is-void" aria-hidden="true"></td><td data-date="2026-09-18" data-value="85326766" data-level="2" role="gridcell" aria-label="Fri 18 Sep: 85.3 M tokens"></td><td data-date="2026-09-25" data-value="143594670" data-level="2" role="gridcell" aria-label="Fri 25 Sep: 143.6 M tokens"></td><td data-date="2026-10-02" data-value="685183206" data-level="4" role="gridcell" aria-label="Fri 2 Oct: 685.2 M tokens"></td><td class="is-void" aria-hidden="true"></td></tr><tr><th scope="row" aria-hidden="true"></th><td class="is-void" aria-hidden="true"></td><td data-date="2026-09-19" data-value="56009301" data-level="2" role="gridcell" aria-label="Sat 19 Sep: 56.0 M tokens"></td><td data-date="2026-09-26" data-value="39499225" data-level="1" role="gridcell" aria-label="Sat 26 Sep: 39.5 M tokens"></td><td data-date="2026-10-03" data-value="875089817" data-level="4" role="gridcell" aria-label="Sat 3 Oct: 875.1 M tokens"></td><td class="is-void" aria-hidden="true"></td></tr><tr><th scope="row" aria-hidden="true">Sun</th><td data-date="2026-09-13" data-value="0" data-level="0" role="gridcell" aria-label="Sun 13 Sep: 0 tokens"></td><td data-date="2026-09-20" data-value="18764637" data-level="1" role="gridcell" aria-label="Sun 20 Sep: 18.8 M tokens"></td><td data-date="2026-09-27" data-value="118419741" data-level="2" role="gridcell" aria-label="Sun 27 Sep: 118.4 M tokens"></td><td data-date="2026-10-04" data-value="435144605" data-level="3" role="gridcell" aria-label="Sun 4 Oct: 435.1 M tokens"></td><td class="is-void" aria-hidden="true"></td></tr>
       </tbody>
     </table>
   </div>

diff --git a/work/routing/index.html b/work/routing/index.html
@@ -220,8 +220,8 @@
     </ul>
     <p>Measured split, share of Hermes-tracked tokens:</p>
     <dl class="kv">
-      <dt>Gemini Flash</dt><dd class="mono">65.2%</dd>
-      <dt>Claude Opus</dt><dd class="mono">29.8%</dd>
+      <dt>Gemini Flash</dt><dd class="mono">64.9%</dd>
+      <dt>Claude Opus</dt><dd class="mono">30.1%</dd>
       <dt>Claude Sonnet</dt><dd class="mono">5.0%</dd>
     </dl>
     <p class="small muted">Computed at build time from the Hermes session database (share of Hermes-tracked tokens). It covers the tokens Hermes tracks directly, not every call made through the gateway.</p>
